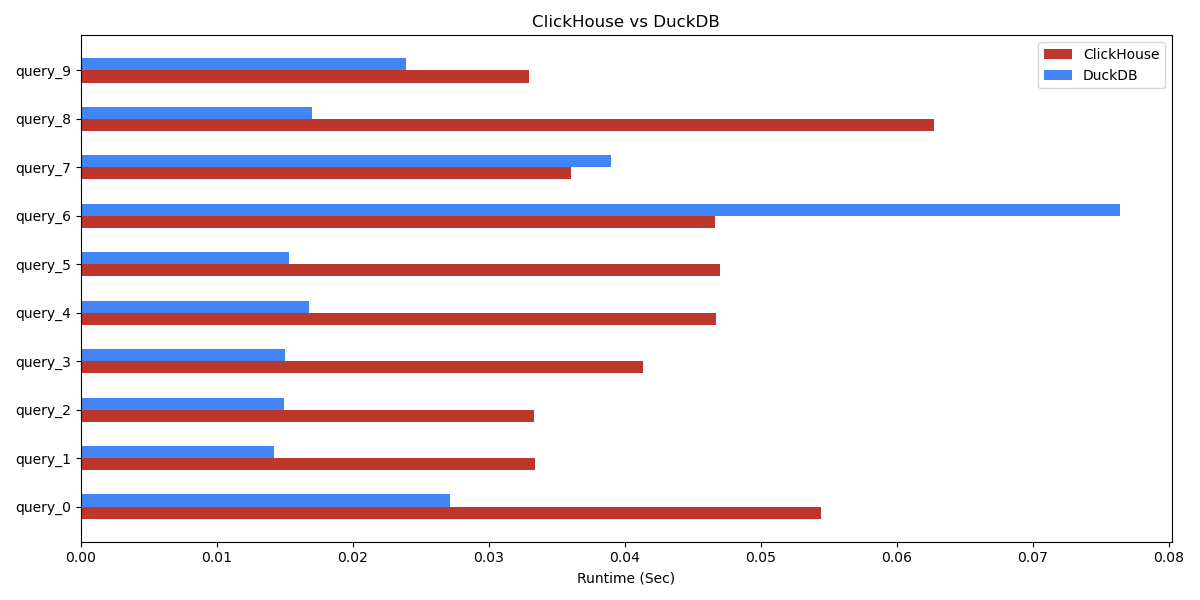
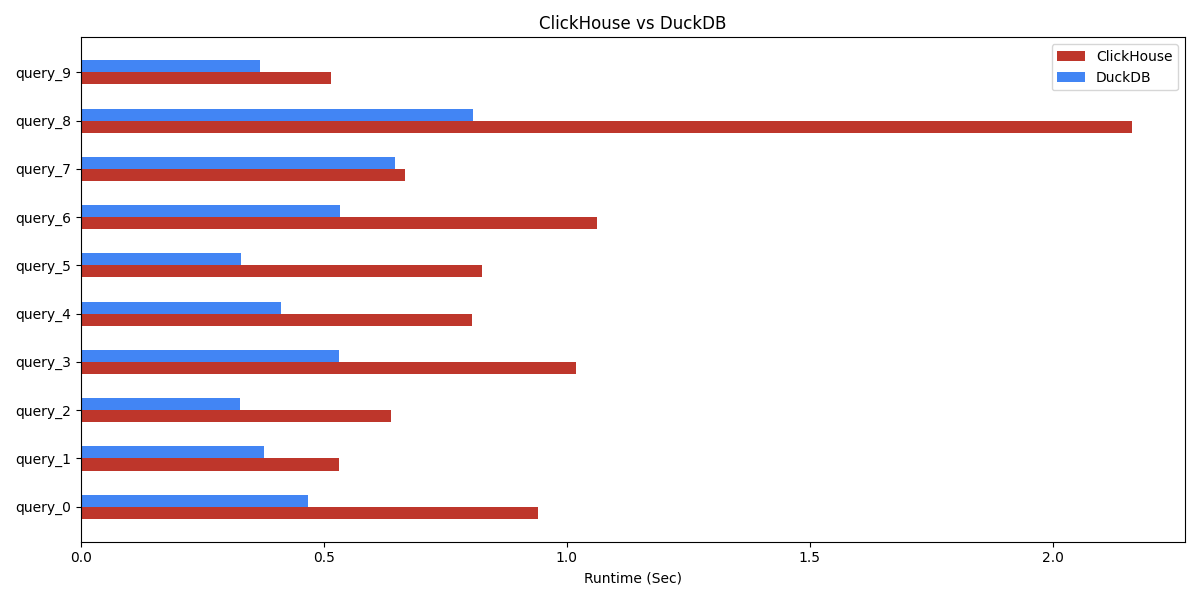
Update requirements.txt and README.md

diff --git a/parquet/performance/tests/duckdb/reports.py b/parquet/performance/tests/duckdb/reports.py
@@ -44,8 +44,6 @@ def convert_to_markdown(csv_file, markdown_name, query):
     for i in query:
         query_dictionary[i[0]] = i[5]
 
-    print(query_dictionary)
-
     with open(markdown_name, "w") as f:
         f.write("# ClickHouse vs DuckDB (Runtime in Seconds)\n\n")
         f.write("## Bar Chart\n")

diff --git a/parquet/performance/results/README.md b/parquet/performance/results/README.md
@@ -1,102 +1,104 @@
 # ClickHouse vs DuckDB (Runtime in Seconds)
 
+## Bar Chart
+![Bar Chart](bar_chart.png)
 # query_0
 ```sql
- SELECT avg(c1) FROM(SELECT Year, Month, count(*) AS c1 FROM file(ontime_parquet_5dc41c59_45b8_11ee_9778_5ddce775f86b.parquet) GROUP BY Year, Month);
+ SELECT avg(c1) FROM(SELECT Year, Month, count(*) AS c1 FROM file(ontime_parquet_9bd02b3a_45b9_11ee_9394_5d3e96bc1319.parquet) GROUP BY Year, Month);
 ```
 
 ```mermaid
      pie showData
-         "ClickHouse" : 0.0544080734252929
-         "DuckDB" : 0.0271315574645996
+         "ClickHouse" : 0.9405548572540284
+         "DuckDB" : 0.468574047088623
 ```
 # query_1
 ```sql
- SELECT DayOfWeek, count(*) AS c FROM file(ontime_parquet_5dc41c59_45b8_11ee_9778_5ddce775f86b.parquet) WHERE Year>=2000 AND Year<=2008 GROUP BY DayOfWeek ORDER BY c DESC;
+ SELECT DayOfWeek, count(*) AS c FROM file(ontime_parquet_9bd02b3a_45b9_11ee_9394_5d3e96bc1319.parquet) WHERE Year>=2000 AND Year<=2008 GROUP BY DayOfWeek ORDER BY c DESC;
 ```
 
 ```mermaid
      pie showData
-         "ClickHouse" : 0.0334150791168212
-         "DuckDB" : 0.0141968727111816
+         "ClickHouse" : 0.5309123992919922
+         "DuckDB" : 0.3770914077758789
 ```
 # query_2
 ```sql
- SELECT DayOfWeek, count(*) AS c FROM file('ontime_parquet_5dc41c59_45b8_11ee_9778_5ddce775f86b.parquet') WHERE Year>=2000 AND Year<=2008 GROUP BY DayOfWeek ORDER BY c DESC;
+ SELECT DayOfWeek, count(*) AS c FROM file('ontime_parquet_9bd02b3a_45b9_11ee_9394_5d3e96bc1319.parquet') WHERE Year>=2000 AND Year<=2008 GROUP BY DayOfWeek ORDER BY c DESC;
 ```
 
 ```mermaid
      pie showData
-         "ClickHouse" : 0.0333015918731689
-         "DuckDB" : 0.0149505138397216
+         "ClickHouse" : 0.6388671398162842
+         "DuckDB" : 0.3282647132873535
 ```
 # query_3
 ```sql
- SELECT Origin, count(*) AS c FROM file('ontime_parquet_5dc41c59_45b8_11ee_9778_5ddce775f86b.parquet') WHERE DepDelay>10 AND Year>=2000 AND Year<=2008 GROUP BY Origin ORDER BY c DESC LIMIT 10;
+ SELECT Origin, count(*) AS c FROM file('ontime_parquet_9bd02b3a_45b9_11ee_9394_5d3e96bc1319.parquet') WHERE DepDelay>10 AND Year>=2000 AND Year<=2008 GROUP BY Origin ORDER BY c DESC LIMIT 10;
 ```
 
 ```mermaid
      pie showData
-         "ClickHouse" : 0.0413005352020263
-         "DuckDB" : 0.0149910449981689
+         "ClickHouse" : 1.0202176570892334
+         "DuckDB" : 0.5314204692840576
 ```
 # query_4
 ```sql
- SELECT IATA_CODE_Reporting_Airline AS Carrier, count(*) FROM file('ontime_parquet_5dc41c59_45b8_11ee_9778_5ddce775f86b.parquet') WHERE DepDelay>10 AND Year=2007 GROUP BY Carrier ORDER BY count(*) DESC;
+ SELECT IATA_CODE_Reporting_Airline AS Carrier, count(*) FROM file('ontime_parquet_9bd02b3a_45b9_11ee_9394_5d3e96bc1319.parquet') WHERE DepDelay>10 AND Year=2007 GROUP BY Carrier ORDER BY count(*) DESC;
 ```
 
 ```mermaid
      pie showData
-         "ClickHouse" : 0.0466895103454589
-         "DuckDB" : 0.0167860984802246
+         "ClickHouse" : 0.8046214580535889
+         "DuckDB" : 0.4115524291992187
 ```
 # query_5
 ```sql
- SELECT IATA_CODE_Reporting_Airline AS Carrier, avg(DepDelay>10)*100 AS c3 FROM file('ontime_parquet_5dc41c59_45b8_11ee_9778_5ddce775f86b.parquet') WHERE Year=2007 GROUP BY Carrier ORDER BY c3 DESC
+ SELECT IATA_CODE_Reporting_Airline AS Carrier, avg(DepDelay>10)*100 AS c3 FROM file('ontime_parquet_9bd02b3a_45b9_11ee_9394_5d3e96bc1319.parquet') WHERE Year=2007 GROUP BY Carrier ORDER BY c3 DESC
 ```
 
 ```mermaid
      pie showData
-         "ClickHouse" : 0.0469555854797363
-         "DuckDB" : 0.0153460502624511
+         "ClickHouse" : 0.8255805969238281
+         "DuckDB" : 0.3291332721710205
 ```
 # query_6
 ```sql
- SELECT IATA_CODE_Reporting_Airline AS Carrier, avg(DepDelay>10)*100 AS c3 FROM file('ontime_parquet_5dc41c59_45b8_11ee_9778_5ddce775f86b.parquet') WHERE Year>=2000 AND Year<=2008 GROUP BY Carrier ORDER BY c3 DESC;
+ SELECT IATA_CODE_Reporting_Airline AS Carrier, avg(DepDelay>10)*100 AS c3 FROM file('ontime_parquet_9bd02b3a_45b9_11ee_9394_5d3e96bc1319.parquet') WHERE Year>=2000 AND Year<=2008 GROUP BY Carrier ORDER BY c3 DESC;
 ```
 
 ```mermaid
      pie showData
-         "ClickHouse" : 0.0466554164886474
-         "DuckDB" : 0.0763881206512451
+         "ClickHouse" : 1.0619726181030271
+         "DuckDB" : 0.5334749221801758
 ```
 # query_7
 ```sql
- SELECT Year, avg(DepDelay>10)*100 FROM file('ontime_parquet_5dc41c59_45b8_11ee_9778_5ddce775f86b.parquet') GROUP BY Year ORDER BY Year;
+ SELECT Year, avg(DepDelay>10)*100 FROM file('ontime_parquet_9bd02b3a_45b9_11ee_9394_5d3e96bc1319.parquet') GROUP BY Year ORDER BY Year;
 ```
 
 ```mermaid
      pie showData
-         "ClickHouse" : 0.0360302925109863
-         "DuckDB" : 0.0390093326568603
+         "ClickHouse" : 0.6664388179779053
+         "DuckDB" : 0.6474573612213135
 ```
 # query_8
 ```sql
- SELECT DestCityName, uniqExact(OriginCityName) AS u FROM file('ontime_parquet_5dc41c59_45b8_11ee_9778_5ddce775f86b.parquet') WHERE Year >= 2000 and Year <= 2010 GROUP BY DestCityName ORDER BY u DESC LIMIT 10;
+ SELECT DestCityName, uniqExact(OriginCityName) AS u FROM file('ontime_parquet_9bd02b3a_45b9_11ee_9394_5d3e96bc1319.parquet') WHERE Year >= 2000 and Year <= 2010 GROUP BY DestCityName ORDER BY u DESC LIMIT 10;
 ```
 
 ```mermaid
      pie showData
-         "ClickHouse" : 0.0627272129058837
-         "DuckDB" : 0.0170352458953857
+         "ClickHouse" : 2.1643035411834717
+         "DuckDB" : 0.8073527812957764
 ```
 # query_9
 ```sql
- SELECT Year, count(*) AS c1 FROM file('ontime_parquet_5dc41c59_45b8_11ee_9778_5ddce775f86b.parquet') GROUP BY Year;
+ SELECT Year, count(*) AS c1 FROM file('ontime_parquet_9bd02b3a_45b9_11ee_9394_5d3e96bc1319.parquet') GROUP BY Year;
 ```
 
 ```mermaid
      pie showData
-         "ClickHouse" : 0.0329434871673584
-         "DuckDB" : 0.0239274501800537
+         "ClickHouse" : 0.5149374008178711
+         "DuckDB" : 0.3691968917846679
 ```
